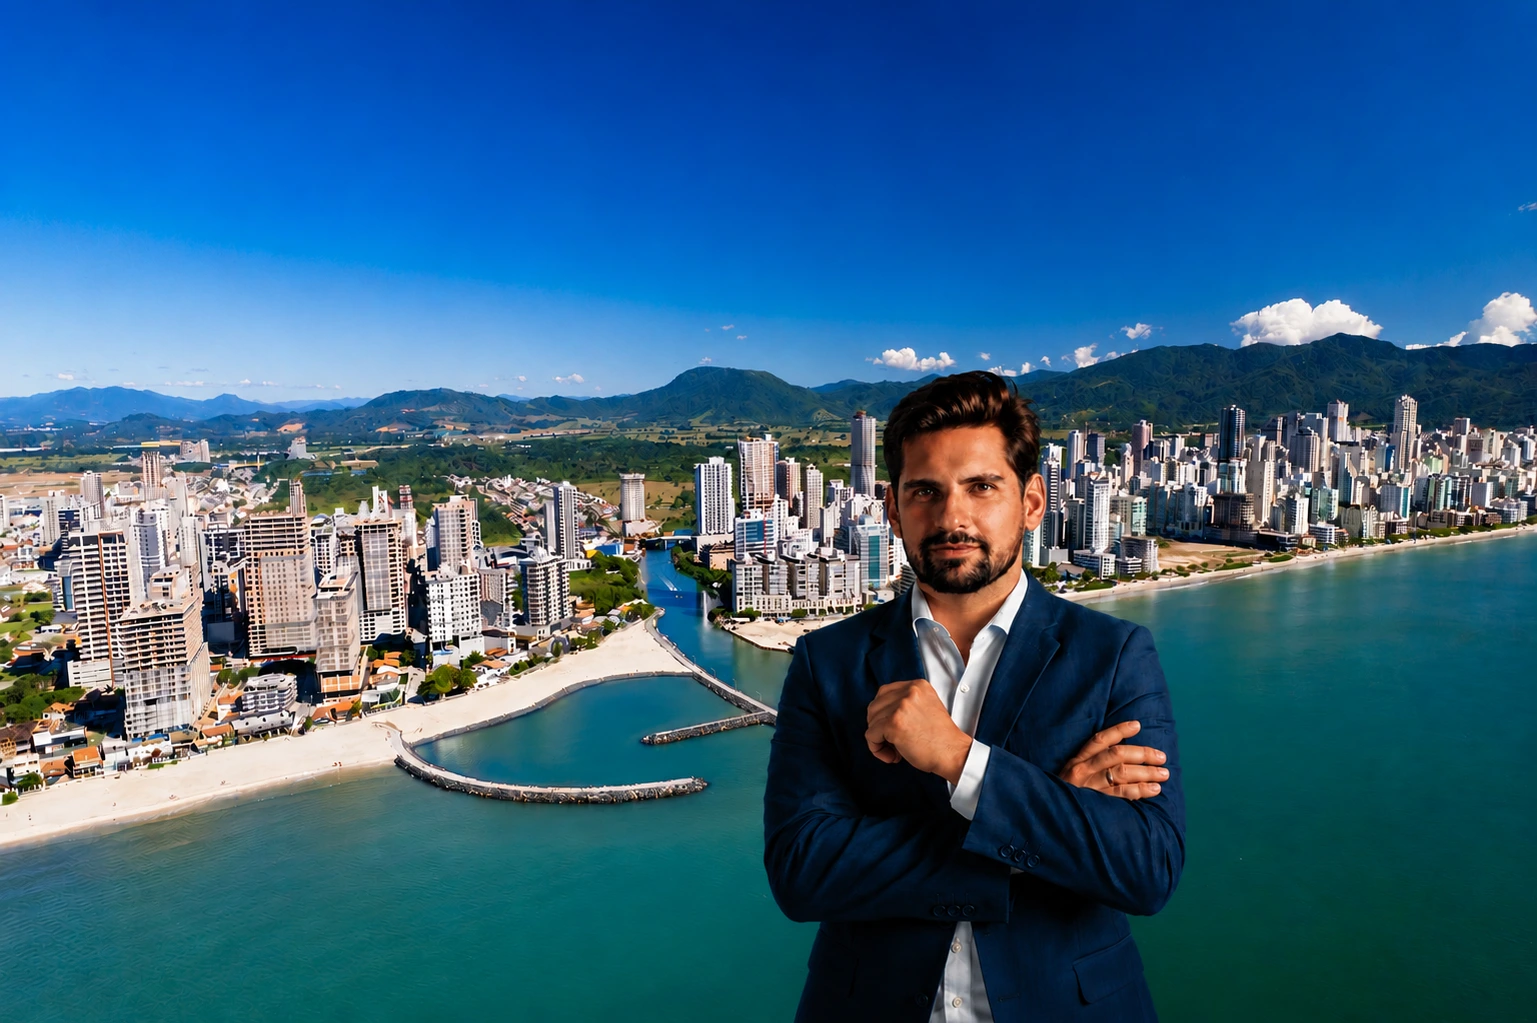
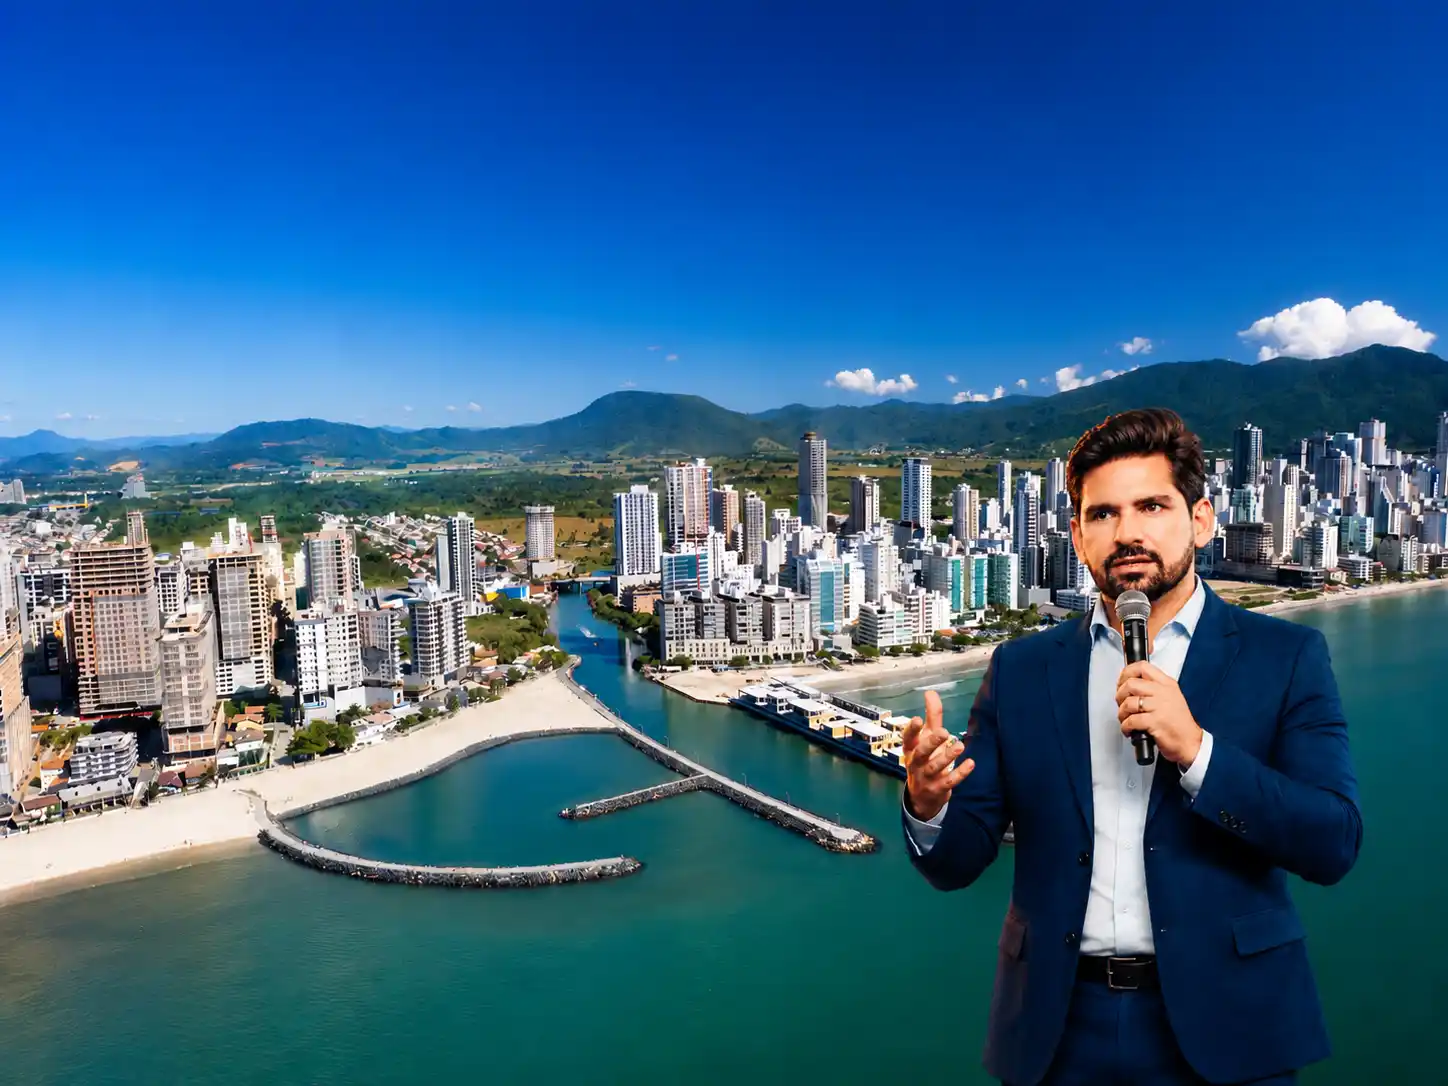
landingpages

diff --git a/app/components/hero.tsx b/app/components/hero.tsx
@@ -7,7 +7,7 @@ export default function Hero() {
 
       {/* Imagem de fundo — apenas desktop */}
       <div className="absolute inset-0 z-0 hidden sm:block">
-        <Image src="/hero.webp" alt="" width={1920} height={1080} className="absolute top-0 right-[-40px] h-full w-auto" priority />
+        <Image src="/hero.webp" alt="" fill sizes="100vw" className="object-cover object-right-top" priority />
         <div className="absolute inset-0 z-10" style={{ background: "linear-gradient(to right, #000000 30%, rgba(0,0,0,0.6) 55%, rgba(0,0,0,0.1) 75%, transparent 100%)" }} />
       </div>
 
@@ -43,7 +43,7 @@ export default function Hero() {
           <span className="inline-block border border-zinc-900 rounded-full text-white/20 text-xs uppercase px-4 py-1 lg:mb-6 font-semibold">
             Imersão Online Exclusiva | Vagas Limitadas
           </span>
-          <h1 className="text-white font-cormorant text-6xl sm:text-8xl font-light leading-tight mb-2 ">
+          <h1 className="text-white font-cormorant text-6xl sm:text-8xl font-bold leading-tight mb-2 ">
             IMERSÃO<br />
             <span className="gradient-text font-bold">ARI</span>
           </h1>
@@ -56,7 +56,7 @@ export default function Hero() {
           <p className="gradient-text lg:block hidden text-xs mb-4">
             26, 27 e 28 de maio às 20h &nbsp;·&nbsp; 100% online e ao vivo &nbsp;·&nbsp; R$ 89,00
           </p>
-          <ModalTrigger className="button text-black font-bold uppercase tracking-widest px-10 py-4 text-sm inline-block">
+          <ModalTrigger className="button-sun font-bold uppercase tracking-widest px-10 py-4 text-sm inline-block">
             GARANTIR MINHA VAGA
           </ModalTrigger>
         </div>

diff --git a/app/globals.css b/app/globals.css
@@ -145,7 +145,7 @@ body {
   box-shadow: 0 0 20px rgba(236, 206, 131, 0.5), 0 0 40px rgba(236, 206, 131, 0.2);
   transition: all 0.1s ease;
   cursor: pointer;
-  border-radius: 12px;
+  border-radius: 0 12px 0 12px;
   color: #ffffff;
   font-size: 0.875rem;
   position: relative;
@@ -215,6 +215,36 @@ body {
   -webkit-text-fill-color: transparent;
   color: transparent;
   animation: shine-text-anim 5.5s linear infinite;
+}
+
+.button-sun {
+  background: linear-gradient(135deg, #c4a200 0%, #FFDE21 50%, #fff0a0 100%);
+  box-shadow: 0 0 20px rgba(255, 222, 33, 0.5), 0 0 40px rgba(255, 222, 33, 0.2);
+  transition: all 0.1s ease;
+  cursor: pointer;
+  border-radius: 0 12px 0 12px;
+  color: #000000;
+  position: relative;
+  overflow: hidden;
+}
+
+.button-sun::before {
+  content: "";
+  position: absolute;
+  top: 0;
+  left: -100%;
+  width: 100%;
+  height: 100%;
+  background: linear-gradient(90deg, transparent, rgba(255, 255, 255, 0.4), transparent);
+  transform: skewX(-20deg);
+  animation: lightBeam 5s infinite;
+  z-index: 1;
+  pointer-events: none;
+}
+
+.button-sun:hover {
+  box-shadow: 0 0 30px rgba(255, 222, 33, 0.8), 0 0 60px rgba(255, 222, 33, 0.4);
+  transform: scale(1.05);
 }
 
 .button-blue {

diff --git a/app/components/preco.tsx b/app/components/preco.tsx
@@ -1,5 +1,4 @@
-import ModalTrigger from "./modal-trigger";
-
+import GarantirVagaBtn from "./garantir-vaga-btn"
 export default function Preco() {
     return (
 <section className="text-white py-12 px-6 text-center">
@@ -8,9 +7,7 @@ export default function Preco() {
       Este é o método que sustenta os investimentos dos nossos maiores cotistas. Pela primeira vez, você pode acessar esse conhecimento de forma estruturada e profissional.
     </p>
 
-    <ModalTrigger className="inline-block button text-black font-bold uppercase tracking-widest px-12 py-4 text-sm mb-10">
-      GARANTIR MINHA VAGA
-    </ModalTrigger>
+    
 
     <div className="mt-5">
       <p className="text-gray-400 text-base mb-4">Investimento na</p>
@@ -21,6 +18,9 @@ export default function Preco() {
       <p className="gradient-text font-cormorant text-5xl font-bold mt-4">R$ 89,00</p>
       <p className="text-white font-semibold mt-6">ou 12x de R$ 9,20</p>
       <p className="gradient-text font-semibold">Vagas limitadas para garantir a qualidade do suporte.</p>
+    </div>
+    <div className=" place-items-center mt-10">
+      <GarantirVagaBtn />
     </div>
   </div>
 </section>

diff --git a/app/e/page.tsx b/app/e/page.tsx
@@ -1,0 +1,33 @@
+import Hero from "../components/b/hero";
+import { MarqueeBanner } from "../components/b/marquee-banner";
+import LeadModal from "../components/lead-modal";
+import Sobre from "../components/b/sobre";
+import Parequem from "../components/b/paraquem";
+import Oque from "../components/b/oque";
+import OqueVaiTer from "../components/b/oquevaiter";
+import Perguntas from "../components/b/perguntas";
+import Footer from "../components/b/footer";
+import Valor from "../components/b/valor";
+
+
+
+export default function HomeB() {
+  return (
+    <main className="bg-black relative">
+      <LeadModal />
+      <Hero />
+      <MarqueeBanner />
+      <div className="relative">
+        <div className="hidden lg:block absolute top-0 bottom-0 left-30 w-px bg-white/20 z-0 pointer-events-none" />
+        <div className="hidden lg:block absolute top-0 bottom-0 right-30 w-px bg-white/20 z-0 pointer-events-none" />
+        <Parequem />
+        <Oque />
+        <OqueVaiTer />
+        <Sobre />
+        <Valor />
+        <Perguntas />
+        <Footer />
+      </div>
+    </main>
+  );
+}

diff --git a/app/a/page.tsx b/app/a/page.tsx
@@ -1,0 +1,38 @@
+import Hero from "../components/hero";
+import LeadModal from "../components/lead-modal";
+import Problem from "../components/problem";
+import Sobre from "../components/sobre";
+import Treinamento from "../components/treinamento";
+import Pilares from "../components/pilares";
+import Parequem from "../components/paraquem";
+import Evento from "../components/evento";
+import Preco from "../components/preco";
+import Precocard from "../components/precocard";
+import Garantia from "../components/garantia";
+import Custo from "../components/custo";
+import Faq from "../components/faq";
+import PS from "../components/ps";
+import Duvidas from "../components/duvidas";
+
+
+export default function Home() {
+  return (
+    <main className="bg-black relative">
+      <LeadModal />
+      <Hero />
+      <Problem />
+      <Sobre />
+      <Treinamento />
+      <Pilares />
+      <Parequem />
+      <Evento />
+      <Preco />
+      <Precocard />
+      <Garantia />
+      <Custo />
+      <Faq />
+      <PS />
+      <Duvidas />
+    </main>
+  );
+}

diff --git a/app/components/b/hero.tsx b/app/components/b/hero.tsx
@@ -64,7 +64,8 @@ export default function Hero() {
 
           {/* Prova de resultado */}
           <p className="text-gray-400 mb-8 lg:block hidden leading-relaxed">
-            O Método que fez um time de 12 arquitetos venderem 47 unidades em 8 meses — com rendimentos de até 3% ao mês, livres de IR, investindo em incorporação imobiliária no litoral de SC.
+            Aprenda em 3 dias o método real de investimento em incorporação imobiliária no litoral catarinense que pode dobrar seu capital em 3 anos.
+            Ao vivo. Com Fabhricio ARI.
           </p>
 
           {/* De/Por + CTA */}
@@ -73,7 +74,7 @@ export default function Hero() {
               <span className="line-through mr-2">De R$ 297,00</span>
               <span className="gradient-text-blue font-bold text-base">por R$ 89,00</span>
             </p>
-            <GarantirVagaBtn className="w-full" variant="blue" />
+            <GarantirVagaBtn className="w-full" />
           </div>
 
           {/* Detalhes logísticos */}

diff --git a/app/g/page.tsx b/app/g/page.tsx
@@ -1,0 +1,27 @@
+import Hero from "../components/b/hero";
+import { MarqueeBanner } from "../components/b/marquee-banner";
+import LeadModal from "../components/lead-modal";
+import Sobre from "../components/b/sobre";
+import Oque from "../components/b/oque";
+import Valor from "../components/b/valor";
+import Footer from "../components/b/footer";
+
+
+
+export default function HomeC() {
+  return (
+    <main className="bg-black relative">
+      <LeadModal />
+      <Hero />
+      <MarqueeBanner />
+      <div className="relative">
+        <div className="hidden lg:block absolute top-0 bottom-0 left-30 w-px bg-white/20 z-0 pointer-events-none" />
+        <div className="hidden lg:block absolute top-0 bottom-0 right-30 w-px bg-white/20 z-0 pointer-events-none" />
+        <Sobre />
+        <Oque />
+        <Valor />
+        <Footer />
+      </div>
+    </main>
+  );
+}

diff --git a/app/f/page.tsx b/app/f/page.tsx
@@ -1,0 +1,26 @@
+import Hero from "../components/b/hero";
+import { MarqueeBanner } from "../components/b/marquee-banner";
+import LeadModal from "../components/lead-modal";
+import Sobre from "../components/b/sobre";
+import Oque from "../components/b/oque";
+import Footer from "../components/b/footer";
+
+
+
+
+export default function HomeC() {
+  return (
+    <main className="bg-black relative">
+      <LeadModal />
+      <Hero />
+      <MarqueeBanner />
+      <div className="relative">
+        <div className="hidden lg:block absolute top-0 bottom-0 left-30 w-px bg-white/20 z-0 pointer-events-none" />
+        <div className="hidden lg:block absolute top-0 bottom-0 right-30 w-px bg-white/20 z-0 pointer-events-none" />
+        <Oque />
+        <Sobre />
+        <Footer />
+      </div>
+    </main>
+  );
+}

diff --git a/app/components/problem.tsx b/app/components/problem.tsx
@@ -1,3 +1,5 @@
+import GarantirVagaBtn from "./garantir-vaga-btn";
+
 export default function Problem() {
     return (
 <section className="text-white lg:py-12 py-4 px-6">
@@ -13,9 +15,11 @@ export default function Problem() {
       <p>Investidor de verdade busca a multiplicação do seu capital. Mas provavelmente ninguém te ensinou a fazer isso, até agora!</p>
       <p>Participe da Imersão ARI, onde ensinaremos a estratégia definitiva para quem busca dobrar seu capital com a segurança de ativos reais.</p>
     </div>
-  </div>
 
-  
+    <div className="flex justify-center mt-10">
+      <GarantirVagaBtn />
+    </div>
+  </div>
 </section>
     )
 }

diff --git a/app/components/b/footer.tsx b/app/components/b/footer.tsx
@@ -20,7 +20,7 @@ export default function Footer() {
           href="https://wa.me/5547991991866?text=Ol%C3%A1!%20tudo%20certo%3F%20cheguei%20aqui%20pelo%20link%20em%20sua%20landing%20page%20e%20gostaria%20de%20me%20informar%20mais%20sobre%20o%20evento%20Imers%C3%A3o%20ARI"
           target="_blank"
           rel="noopener noreferrer"
-          className="inline-flex items-center gap-2 button-blue font-bold uppercase tracking-widest text-sm px-10 py-4"
+          className="inline-flex items-center gap-2 button text-black font-bold uppercase tracking-widest text-sm px-10 py-4"
         >
           <WhatsAppIcon /> QUERO FALAR COM A EQUIPE
         </a>

diff --git a/app/h/page.tsx b/app/h/page.tsx
@@ -1,0 +1,19 @@
+import Hero from "../components/b/hero";
+import { MarqueeBanner } from "../components/b/marquee-banner";
+import LeadModal from "../components/lead-modal";
+
+
+
+export default function HomeC() {
+  return (
+    <main className="bg-black relative">
+      <LeadModal />
+      <Hero />
+      <MarqueeBanner />
+      <div className="relative">
+        <div className="hidden lg:block absolute top-0 bottom-0 left-30 w-px bg-white/20 z-0 pointer-events-none" />
+        <div className="hidden lg:block absolute top-0 bottom-0 right-30 w-px bg-white/20 z-0 pointer-events-none" />
+      </div>
+    </main>
+  );
+}

diff --git a/app/components/duvidas.tsx b/app/components/duvidas.tsx
@@ -16,7 +16,7 @@ export default function Duvidas() {
           href="https://wa.me/5547991991866?text=Ol%C3%A1!%20tudo%20certo%3F%20cheguei%20aqui%20pelo%20link%20em%20sua%20landing%20page%20e%20gostaria%20de%20me%20informar%20mais%20sobre%20o%20evento%20Imers%C3%A3o%20ARI"
           target="_blank"
           rel="noopener noreferrer"
-          className="inline-block button text-black font-bold uppercase tracking-widest text-sm px-10 py-4"
+          className="inline-block button-sun font-bold uppercase tracking-widest text-sm px-10 py-4"
         >
           QUERO FALAR COM A EQUIPE
         </a>
